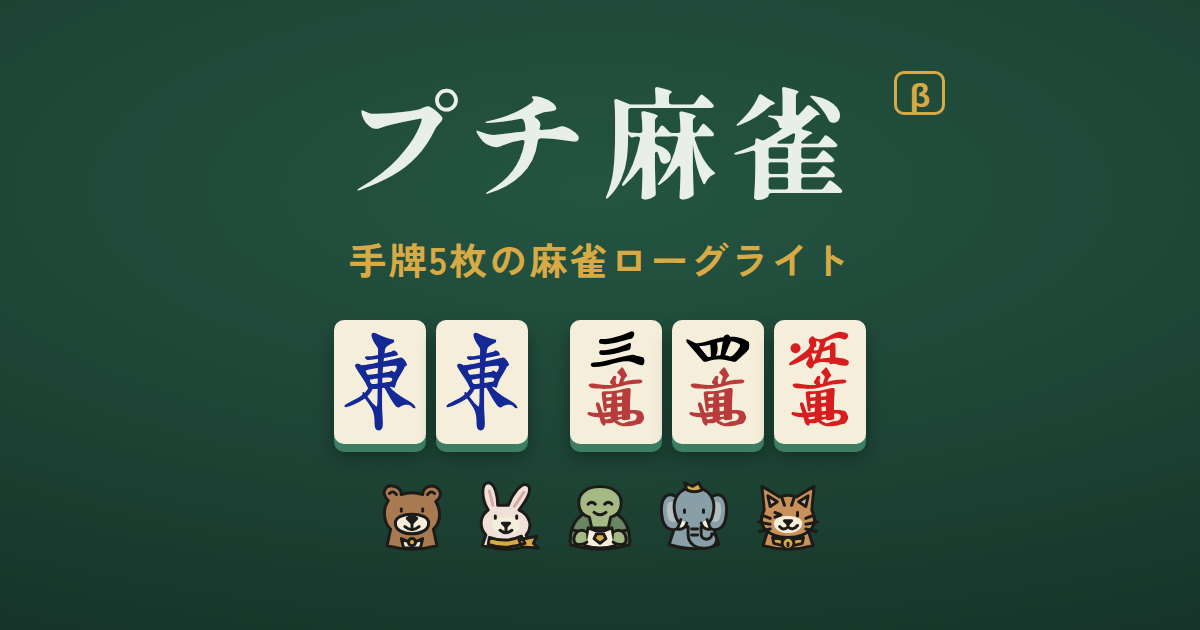
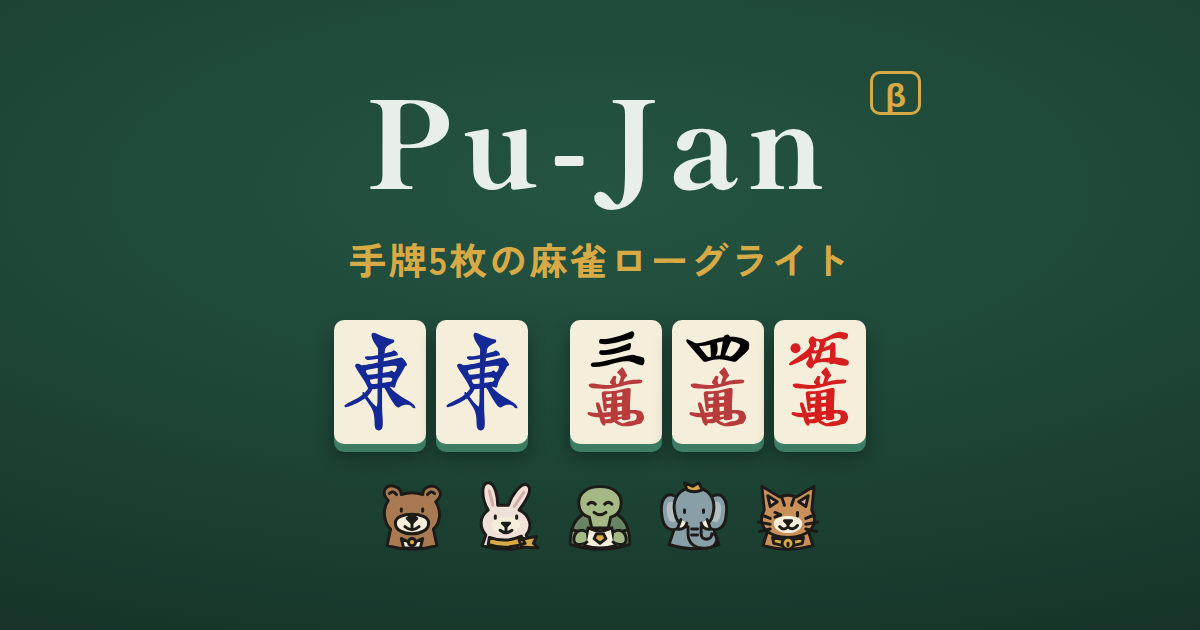
名前をプチ麻雀から Pu-Jan に変える
同じ名前のものがほかにあったため。画面・PWA の名前・OGP（og.png を撮り直した）・
ドキュメントを変える。プロトタイプの HTML は確定版の記録なので前の名前のまま残す。

Claude-Session: https://claude.ai/code/session_01PZw9ixi72PH4Dr754FHu3r

Changed region(s): [[0.2775, 0.0905, 0.8017, 0.3317]]

diff --git a/frontend/src/components/sheets/AboutSheet.vue b/frontend/src/components/sheets/AboutSheet.vue
@@ -1,6 +1,6 @@
 <script setup lang="ts">
 /**
- * プチ麻雀について: ゲームの説明、β版の説明と集める情報（docs/SPEC.md フェーズ 4.5）、kan-game.app へのリンク、
+ * Pu-Jan について: ゲームの説明、β版の説明と集める情報（docs/SPEC.md フェーズ 4.5）、kan-game.app へのリンク、
  * 使っている素材と書体のライセンス、版
  */
 import { ENGINE_VERSION } from '@pujan/engine';
@@ -12,15 +12,15 @@ const APP_VERSION = __APP_VERSION__;
 </script>
 
 <template>
-  <SheetLayer label="プチ麻雀について" dismissible @close="emit('close')">
-    <h2>プチ麻雀について</h2>
+  <SheetLayer label="Pu-Jan について" dismissible @close="emit('close')">
+    <h2>Pu-Jan について</h2>
     <p class="note">
       手牌を5枚（対子＋面子）に縮めた麻雀を、ローグライトとして遊ぶゲームです。東南西北の4つの場を、アイテムを集めながら勝ち抜きます。
     </p>
     <section class="about">
       <h3>β版について</h3>
       <p class="note">
-        プチ麻雀はβ版です。遊んだ感想をもとに、ルール・数値・画面を変えていきます。感想はメニューの「感想を送る」から送れます。
+        Pu-Jan はβ版です。遊んだ感想をもとに、ルール・数値・画面を変えていきます。感想はメニューの「感想を送る」から送れます。
       </p>
       <p class="note">
         β版の間は、ルールを変えたときに、進めている途中のランが続きから遊べなくなることがあります（開き直すと新しいランが始まります）。解禁した雀士・段位・役はそのまま残ります。
@@ -38,7 +38,7 @@ const APP_VERSION = __APP_VERSION__;
     <section class="about">
       <h3>kan-game.app</h3>
       <p class="note">
-        プチ麻雀は <a :href="portalUrl('/')" target="_blank" rel="noopener">kan-game.app</a> のゲームの1つです。プレイヤー名とアカウントは kan-game.app のゲームで共通です。
+        Pu-Jan は <a :href="portalUrl('/')" target="_blank" rel="noopener">kan-game.app</a> のゲームの1つです。プレイヤー名とアカウントは kan-game.app のゲームで共通です。
       </p>
       <p class="note">
         <a :href="portalUrl('/terms')" target="_blank" rel="noopener">利用規約</a>・

diff --git a/frontend/src/components/NameForm.vue b/frontend/src/components/NameForm.vue
@@ -1,6 +1,6 @@
 <script setup lang="ts">
 /**
- * ランキングに出す名前の登録と、プチ麻雀での公開への同意（kan/game docs/ID_DESIGN.md「名前」）。
+ * ランキングに出す名前の登録と、Pu-Jan での公開への同意（kan/game docs/ID_DESIGN.md「名前」）。
  * 名前は kan-game.app 全体で 1 つ。ほかのゲームで登録済みなら、同意だけを求める。
  */
 import { ref } from 'vue';
@@ -32,14 +32,14 @@ async function register(value: string) {
   <div class="nameform">
     <h3 class="subhead">ランキングに参加する</h3>
     <template v-if="account.kanGameName">
-      <p class="note">kan-game.app の名前「{{ account.kanGameName }}」で、プチ麻雀のランキングに載ります。</p>
+      <p class="note">kan-game.app の名前「{{ account.kanGameName }}」で、Pu-Jan のランキングに載ります。</p>
       <button class="btn win" type="button" :disabled="registering" @click="register(account.kanGameName!)">
         この名前で参加する
       </button>
     </template>
     <form v-else @submit.prevent="register(nameInput)">
       <p class="note">
-        名前は kan-game.app のゲームで共通です。登録すると、プチ麻雀のランキングにこの名前で載ります。名前はあとから変えられません。
+        名前は kan-game.app のゲームで共通です。登録すると、Pu-Jan のランキングにこの名前で載ります。名前はあとから変えられません。
       </p>
       <input v-model="nameInput" type="text" maxlength="40" autocomplete="nickname" placeholder="名前（2〜20文字）" aria-label="名前" />
       <button class="btn win" type="submit" :disabled="registering || !nameInput.trim()">登録して参加する</button>

diff --git a/frontend/index.html b/frontend/index.html
@@ -5,7 +5,7 @@
   <meta name="viewport" content="width=device-width, initial-scale=1.0, user-scalable=no, viewport-fit=cover" />
   <meta name="theme-color" content="#1e4637" />
   <meta name="mobile-web-app-capable" content="yes" />
-  <meta name="apple-mobile-web-app-title" content="プチ麻雀" />
+  <meta name="apple-mobile-web-app-title" content="Pu-Jan" />
   <link rel="icon" type="image/png" sizes="32x32" href="/favicon-32.png" />
   <link rel="icon" type="image/svg+xml" href="/pujan-icon.svg" />
   <link rel="apple-touch-icon" sizes="180x180" href="/apple-touch-icon.png" />
@@ -13,7 +13,7 @@
   <!-- 共有したときの表示。画像の元は og/og-image.html（docs/SPEC.md フェーズ 4.5） -->
   <meta property="og:type" content="website" />
   <meta property="og:site_name" content="kan-game.app" />
-  <meta property="og:title" content="プチ麻雀（β）" />
+  <meta property="og:title" content="Pu-Jan（β）" />
   <meta property="og:description" content="手牌5枚の麻雀ローグライト。保留とネクストで役を作り、アイテムを集めて東南西北の4つの場を勝ち抜く" />
   <meta property="og:url" content="https://pujan.kan-game.app/" />
   <meta property="og:image" content="https://pujan.kan-game.app/og.png" />
@@ -25,7 +25,7 @@
   <link rel="preconnect" href="https://fonts.googleapis.com" />
   <link rel="preconnect" href="https://fonts.gstatic.com" crossorigin />
   <link rel="stylesheet" href="https://fonts.googleapis.com/css2?family=Shippori+Mincho+B1:wght@600;800&family=Zen+Kaku+Gothic+New:wght@400;500;700&display=swap" />
-  <title>プチ麻雀</title>
+  <title>Pu-Jan</title>
   <link rel="stylesheet" href="/src/boot.css" />
 </head>
 <body>

diff --git a/frontend/src/components/TutorialView.vue b/frontend/src/components/TutorialView.vue
@@ -86,7 +86,7 @@ function onKeydown(e: KeyboardEvent) {
         <section class="lesson">
           <h2>チュートリアルを見ますか？</h2>
           <p>
-            プチ麻雀は、手牌を5枚（対子＋面子）に縮めた麻雀です。練習の局で、牌の捨て方・保留・ネクスト・和了を実際に試してから、ランの流れを説明します（3分ほど）。
+            Pu-Jan は、手牌を5枚（対子＋面子）に縮めた麻雀です。練習の局で、牌の捨て方・保留・ネクスト・和了を実際に試してから、ランの流れを説明します（3分ほど）。
           </p>
           <p class="note">あとで見るときは、メニューの「遊び方（チュートリアル）」から開けます。</p>
         </section>

diff --git a/frontend/src/components/sheets/MenuSheet.vue b/frontend/src/components/sheets/MenuSheet.vue
@@ -47,7 +47,7 @@ const naming = ref(false);
       <!-- 雀士と段位を選ぶ準備の画面で、今のランをやめることを確かめる -->
       <button class="btn" type="button" @click="emit('newRun')">新しいランを始める</button>
       <button class="btn" type="button" @click="emit('open', 'feedback')">感想を送る</button>
-      <button class="btn" type="button" @click="emit('open', 'about')">プチ麻雀について</button>
+      <button class="btn" type="button" @click="emit('open', 'about')">Pu-Jan について</button>
     </nav>
 
     <button class="btn" type="button" @click="emit('close')">閉じる</button>

diff --git a/backend/src/game-service.ts b/backend/src/game-service.ts
@@ -4,7 +4,7 @@ import type { Bindings } from './types';
 import { deleteAccount } from './lib/account';
 
 /**
- * プチ麻雀が kan-game.app の ID 基盤に提供するもの。ID 基盤は GAME_PUJAN として binding する
+ * Pu-Jan が kan-game.app の ID 基盤に提供するもの。ID 基盤は GAME_PUJAN として binding する
  * （kan/game docs/ID_DESIGN.md「ゲームとの RPC」）。名前付きの entrypoint なので、binding からは
  * このメソッドだけに届き、HTTP の API には届かない。
  */

diff --git a/frontend/src/components/TableView.vue b/frontend/src/components/TableView.vue
@@ -99,7 +99,7 @@ const hint = computed(() => {
 <template>
   <div class="app">
     <header>
-      <h1>プチ麻雀<span class="beta" title="β版">β</span></h1>
+      <h1>Pu-Jan<span class="beta" title="β版">β</span></h1>
       <span class="spacer" />
       <button class="ghost" type="button" @click="emit('openHelp')">役</button>
       <button class="ghost" type="button" aria-haspopup="dialog" @click="emit('openMenu')">メニュー</button>

diff --git a/backend/src/index.ts b/backend/src/index.ts
@@ -1,5 +1,5 @@
 /**
- * プチ麻雀の API（docs/SPEC.md §5）。SPA は同じ Worker の Static Assets が配り、/api/* だけがここに届く。
+ * Pu-Jan の API（docs/SPEC.md §5）。SPA は同じ Worker の Static Assets が配り、/api/* だけがここに届く。
  *
  * - /api/id/*: kan-game.app の ID 基盤へ中継する
  * - /api/me・/api/profile: ランキングに出す名前と公開への同意

diff --git a/frontend/vite.config.ts b/frontend/vite.config.ts
@@ -23,8 +23,8 @@ export default defineConfig({
     VitePWA({
       registerType: 'autoUpdate',
       manifest: {
-        name: 'プチ麻雀',
-        short_name: 'プチ麻雀',
+        name: 'Pu-Jan',
+        short_name: 'Pu-Jan',
         description: '手牌5枚の麻雀ローグライト',
         theme_color: '#1e4637',
         background_color: '#1e4637',

diff --git a/frontend/og/og-image.html b/frontend/og/og-image.html
@@ -58,7 +58,7 @@
   </style>
 </head>
 <body>
-  <h1>プチ麻雀<span class="beta">β</span></h1>
+  <h1>Pu-Jan<span class="beta">β</span></h1>
   <p class="sub">手牌5枚の麻雀ローグライト</p>
   <div class="hand">
     <div class="tile"><img src="/tiles/Ton.svg" alt="" /></div>

diff --git a/docs/SPEC.md b/docs/SPEC.md
@@ -1,4 +1,4 @@
-# SPEC.md — プチ麻雀（pujan）仕様書
+# SPEC.md — Pu-Jan（pujan）仕様書
 
 ゲームルール・ローグライト・画面・API・データ構造の正本。ルールに関わる変更の前に該当する節を読み、変更したらこの文書も直す。
 
@@ -18,7 +18,7 @@
 
 ### 1.2. 配信と名前
 
-- 名前: プチ麻雀。リポジトリ・パッケージ名は `pujan`
+- 名前: Pu-Jan。リポジトリ・パッケージ名は `pujan`。はじめは「プチ麻雀」だったが、同じ名前のものがほかにあったので変えた（プロトタイプの HTML は前の名前のまま）
 - kan-game.app のゲームの 1 つとして Web（PWA）で配信する。本番 `https://pujan.kan-game.app`、開発 `https://pujan-dev.kan-game.app`（予定）
 - ID・名前・退会は kan-game.app の ID 基盤（kan/game）と共通（§5.1）
 
@@ -75,7 +75,7 @@
 - 持ち物一覧: お守り・設備・役の巻物のレベル・牌山。牌山は 34 種の牌に、山にある枚数・赤・金を添えて並べ、牌の改造で変わった牌を金の枠で示す（牌の改造の対象選びでも、変わった牌を金の枠で示す）
 - 牌の改造の対象選び: 34 種の牌と、山にある枚数・赤・金
 - ラン終了・全場クリア（新しく解禁されたもの、ランキングへの記録の様子、感想を送る、メニュー）。この画面はヘッダーを覆うので、メニューはこの画面のボタンから開く。メニューを閉じるとこの画面に戻る
-- メニュー（TAKO-SEN に倣う）: ランキングの名前、kan-game.app のアカウント（ポータルへのリンク）、今週のランキング、遊び方（チュートリアル）、役と遊び方、持ち物、新しいランを始める（ランの準備へ。今のランをやめることはそこで知らせる）、感想を送る、プチ麻雀について（β版の説明、集める情報、素材と書体のライセンス、版）
+- メニュー（TAKO-SEN に倣う）: ランキングの名前、kan-game.app のアカウント（ポータルへのリンク）、今週のランキング、遊び方（チュートリアル）、役と遊び方、持ち物、新しいランを始める（ランの準備へ。今のランをやめることはそこで知らせる）、感想を送る、Pu-Jan について（β版の説明、集める情報、素材と書体のライセンス、版）
 - 感想を送る: 本文（1,000 字まで）と、一緒に送るもの（雀士・段位・進み具合・版）を見せてから送る。送れた感想は端末（localStorage）に 20 件まで残し、画面の下に新しい順で見せる（サーバーからは読まない）
 - β の間は、ヘッダーのタイトルに「β」の印を付ける
 - 役と遊び方: タブで、遊び方・ボーナスの翻・1〜2翻・3翻以上・役満・点数表・アイテムに分ける。組み合わせの役は牌の絵で例を示す（例の手は `frontend/src/lib/help.ts`。その役になることをテストで確かめる）
@@ -435,7 +435,7 @@ vegtab と同じ npm workspaces のモノレポ。
 
 ランキングは週ごと（日本時間の月曜 0:00 に切り替わる）。各 ID のその週の最高記録を、段位 → 突破した場の数（全場クリアが最上位）→ 4 場の合計点（突破できなかった最後の場の点数を含む）の順に並べる。同じ成績は同じ順位。雀士は区別せず、表示だけする。名前と公開への同意がある ID だけを載せ、上位 100 人と本人の記録を返す（`GET /api/rankings/weekly`）。
 
-名前は kan-game.app 全体で 1 つ（kan/game docs/ID_DESIGN.md「名前」）。ランキングの画面で名前を登録し、プチ麻雀での公開に同意する。ほかのゲームで名前を登録済みなら、同意だけを求める。
+名前は kan-game.app 全体で 1 つ（kan/game docs/ID_DESIGN.md「名前」）。ランキングの画面で名前を登録し、Pu-Jan での公開に同意する。ほかのゲームで名前を登録済みなら、同意だけを求める。
 
 表は `backend/migrations/0002_ranked_runs.sql`（`0001_runs.sql` はデイリーを前提にした叩き台で、0002 が作り直す）と `0004_progression.sql`（始めの条件・段位・解禁の状態）、`0005_feedback_and_play_logs.sql`（感想と操作ログ。フェーズ 4.5）。
 
@@ -494,7 +494,7 @@ vegtab と同じ npm workspaces のモノレポ。
 
 公開前の仕上げ:
 
-- β であることを画面に出す（ヘッダーの表示と「プチ麻雀について」）。β の間は仕様と記録が変わりうること、engine の版を上げると途中のランは続きから遊べなくなること（開き直すと新しいランになる。解禁はそのまま。§5.3）を書く
+- β であることを画面に出す（ヘッダーの表示と「Pu-Jan について」）。β の間は仕様と記録が変わりうること、engine の版を上げると途中のランは続きから遊べなくなること（開き直すと新しいランになる。解禁はそのまま。§5.3）を書く
 - バランスの確認: `npm run sim -w engine -- starts` で、雀士・段位ごとの場の到達率を出す。初段の標準の雀士で全場クリアできる割合と、段位を上げたときの下がり方を見て、目標点と縛りを調整する
   - 結果（ショップでお守りと設備を買う AI、組み合わせごとに 40 ラン）: くま・初段で全場クリア 75%、段位ごとに下がって雀聖で 20%。雀士では、うさぎ（速攻）が強く、かめ（門前）が弱い
   - 決めたこと: 三段の縛りを「始めの祝儀が2少ない」から「場を突破したときの祝儀が1少ない」に変えた（始めの祝儀が 0 の雀士には効かなかったため）。初段の易しさと雀士の差は、人が遊んだ集計を見てから直す（AI は人より保留を上手に使う）
@@ -511,7 +511,7 @@ vegtab と同じ npm workspaces のモノレポ。
 
 - 記録したラン（`runs`）に、雀士・段位に加えて操作ログを残す（今は成績しか残していない）。終わらずに捨てたランも、始めたことは数えられるようにする
 - 集計はリポジトリのスクリプトで D1 から読む。個人が分かる形では出さない。見るもの: 場ごとの到達率と負けた場、雀士・段位の選ばれ方とクリア率、和了の役の分布、ショップで買われた品と買われなかった品、局ごとの和了率と流局率、始めて終わらなかったランの割合
-- 何を集めて何に使うかを「プチ麻雀について」に書く。kan/game のプライバシーポリシーへの記載が要るかは、kan/game 側に依頼して確かめる
+- 何を集めて何に使うかを「Pu-Jan について」に書く。kan/game のプライバシーポリシーへの記載が要るかは、kan/game 側に依頼して確かめる
 
 環境と公開:
 
